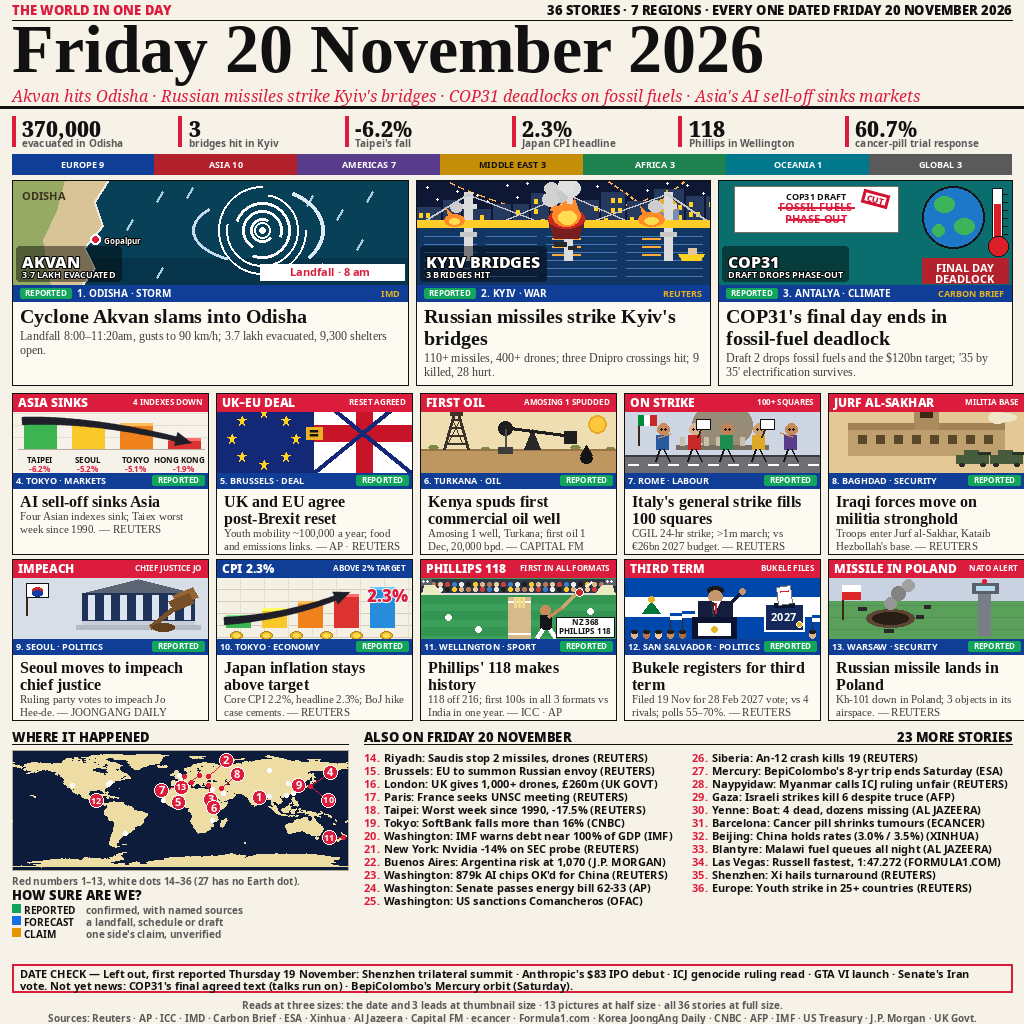
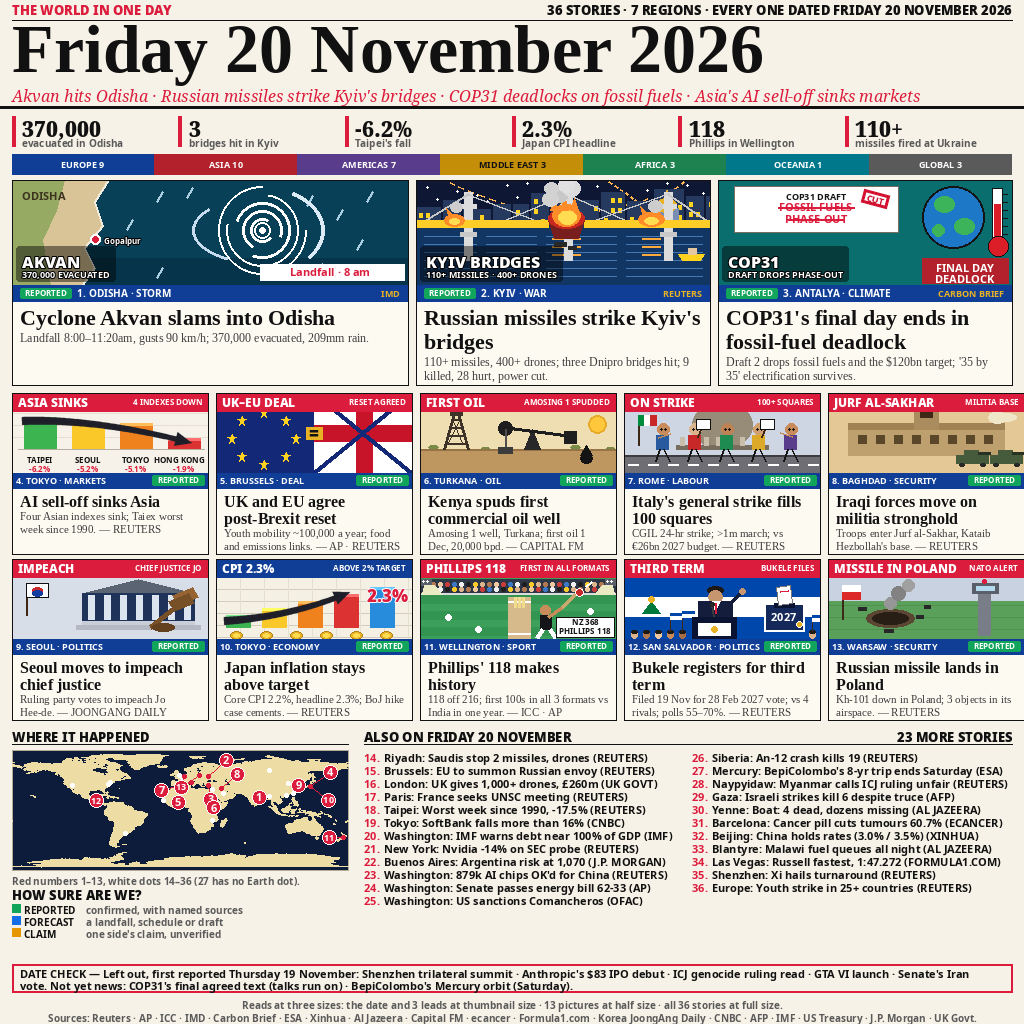
v7: top-3 attempt — hero headlines 22px, 110+ missiles in strip, sharper hero decks

diff --git a/draw.py b/draw.py
@@ -61,6 +61,9 @@ _FONT_TABLE = [
     # the BANNED/CLOSED stamp, big + bold like the user's reference
     ("F_STAMP", "NotoSans-Black.ttf", 12, FNOTO),
     ("F_HEAD", "LiberationSerif-Bold.ttf", 20, FLIB),
+    # v7: hero headlines one step up (20 -> 22px) so the top-3 stories
+    # read as large text at a glance, like the top-3 entries' text rows.
+    ("F_HEAD_H", "LiberationSerif-Bold.ttf", 22, FLIB),
     ("F_HEAD_S", "LiberationSerif-Bold.ttf", 16, FLIB),
     ("F_DECK", "LiberationSerif-Regular.ttf", 12, FLIB),
     ("F_DECK_S", "LiberationSerif-Regular.ttf", 11, FLIB),
@@ -108,12 +111,12 @@ PILL_COL = {
 FRONT = [
     (1, "ODISHA", "STORM", "IMD", "REPORTED",
      "Cyclone Akvan slams into Odisha",
-     "Landfall 8:00–11:20am, gusts to 90 km/h; 3.7 lakh evacuated, 9,300 shelters open.",
-     "AKVAN", "3.7 LAKH EVACUATED", "akvan"),
+     "Landfall 8:00–11:20am, gusts 90 km/h; 370,000 evacuated, 209mm rain.",
+     "AKVAN", "370,000 EVACUATED", "akvan"),
     (2, "KYIV", "WAR", "REUTERS", "REPORTED",
      "Russian missiles strike Kyiv's bridges",
-     "110+ missiles, 400+ drones; three Dnipro crossings hit; 9 killed, 28 hurt.",
-     "KYIV BRIDGES", "3 BRIDGES HIT", "kyiv"),
+     "110+ missiles, 400+ drones; three Dnipro bridges hit; 9 killed, 28 hurt, power cut.",
+     "KYIV BRIDGES", "110+ MISSILES · 400+ DRONES", "kyiv"),
     (3, "ANTALYA", "CLIMATE", "CARBON BRIEF", "REPORTED",
      "COP31's final day ends in fossil-fuel deadlock",
      "Draft 2 drops fossil fuels and the $120bn target; '35 by 35' electrification survives.",
@@ -180,7 +183,7 @@ ALSO = [
     (28, "Naypyidaw", "Myanmar calls ICJ ruling unfair", "REUTERS"),
     (29, "Gaza", "Israeli strikes kill 6 despite truce", "AFP"),
     (30, "Yenne", "Boat: 4 dead, dozens missing", "AL JAZEERA"),
-    (31, "Barcelona", "Cancer pill shrinks tumours", "ECANCER"),
+    (31, "Barcelona", "Cancer pill cuts tumours 60.7%", "ECANCER"),
     (32, "Beijing", "China holds rates (3.0% / 3.5%)", "XINHUA"),
     (33, "Blantyre", "Malawi fuel queues all night", "AL JAZEERA"),
     (34, "Las Vegas", "Russell fastest, 1:47.272", "FORMULA1.COM"),
@@ -194,7 +197,7 @@ STATS = [
     ("-6.2%", "Taipei's fall"),
     ("2.3%", "Japan CPI headline"),
     ("118", "Phillips in Wellington"),
-    ("60.7%", "cancer-pill trial response"),
+    ("110+", "missiles fired at Ukraine"),
 ]
 
 # v6 region bar: per-region story counts counted from OUR actual 36-story
@@ -1102,12 +1105,12 @@ def hero_card(img, d, story, x, y, w):
     d.text((x + 14 + pill_w, y + 113), "%d. %s · %s" % (num, reg, topic),
            font=F_KICK, fill="white", anchor="lm")
     d.text((x + w - 8, y + 113), src, font=F_SRC, fill=GOLD, anchor="rm")
-    head_lines = wrap(d, head, F_HEAD, w - 16, max_lines=2)
+    head_lines = wrap(d, head, F_HEAD_H, w - 16, max_lines=2)
     for j, line in enumerate(head_lines):
-        d.text((x + 8, y + 125 + j * 22), line, font=F_HEAD, fill=INK)
+        d.text((x + 8, y + 125 + j * 24), line, font=F_HEAD_H, fill=INK)
     deck_lines = wrap(d, deck, F_DECK, w - 16, max_lines=2)
     for j, line in enumerate(deck_lines):
-        d.text((x + 8, y + 125 + len(head_lines) * 22 + 2 + j * 14),
+        d.text((x + 8, y + 125 + len(head_lines) * 24 + 2 + j * 14),
                line, font=F_DECK, fill=(60, 60, 60))
     d.rectangle([x, y, x + w, y + 205], outline=INK, width=1)
 
